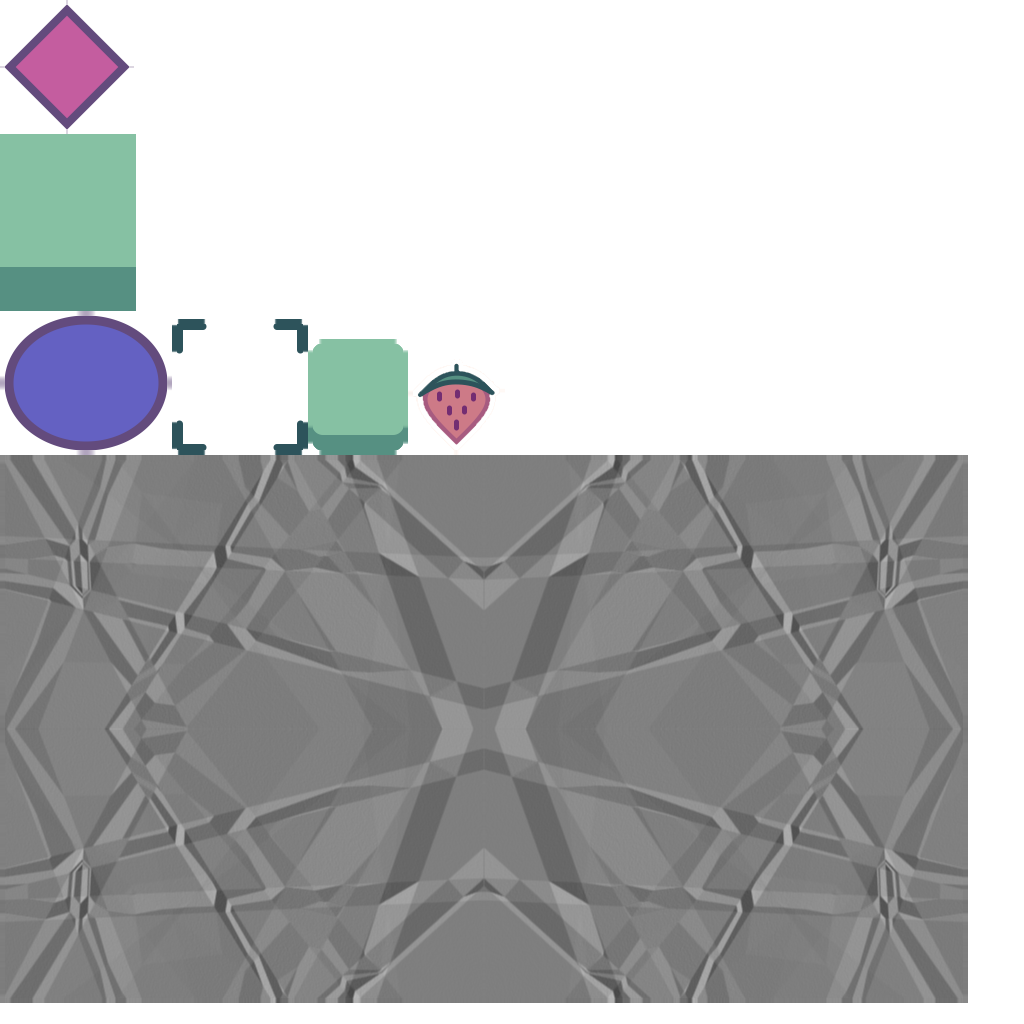
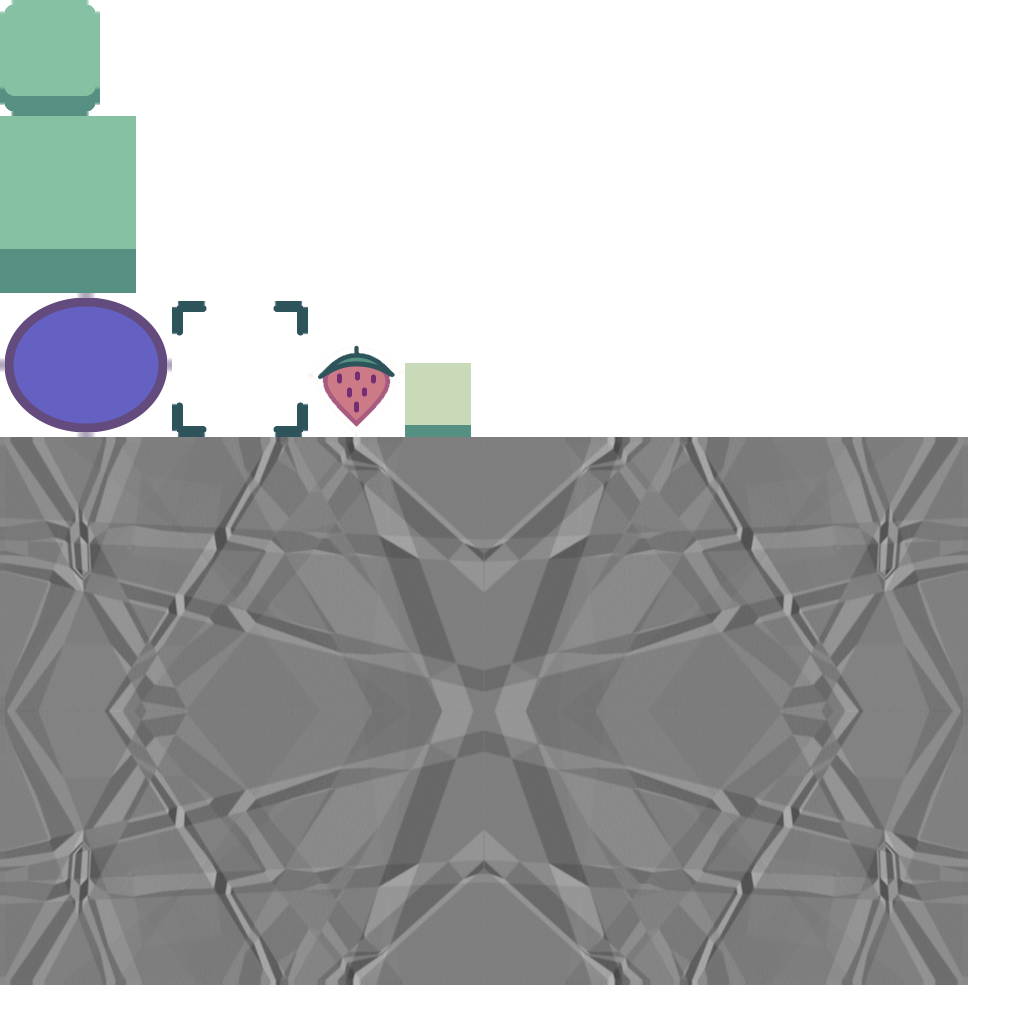
update toggle graphic

diff --git a/core/src/main/java/com/distraction/cjspring26/tile/Tile.java b/core/src/main/java/com/distraction/cjspring26/tile/Tile.java
@@ -16,7 +16,7 @@ public class Tile extends TileEntity {
     private final TextureRegion grassImage;
     private final TextureRegion platformImage;
     private final TextureRegion platformOffImage;
-    private final TextureRegion stoneToggleImage;
+    private final TextureRegion platformToggleImage;
 
     public Tile(Context context, TileMap tileMap, int row, int col) {
         super(context, tileMap);
@@ -24,7 +24,7 @@ public class Tile extends TileEntity {
         grassImage = context.getImage("grass");
         platformImage = context.getImage("grass");
         platformOffImage = context.getImage("platformoff");
-        stoneToggleImage = context.getImage("stonetoggle");
+        platformToggleImage = context.getImage("platformtoggle");
     }
 
     public boolean canWalk() {
@@ -37,7 +37,7 @@ public class Tile extends TileEntity {
             Utils.drawCentered(sb, platformImage, x, y - 42, toggleScale);
             if (!on && toggleTime <= 0) Utils.drawCentered(sb, platformOffImage, x, y - 23);
         }
-        if (platformToggle) Utils.drawCentered(sb, stoneToggleImage, x, y + 106);
+        if (platformToggle) Utils.drawCentered(sb, platformToggleImage, x, y + 106);
     }
 
 }

diff --git a/core/src/main/java/com/distraction/cjspring26/tile/TileMap.java b/core/src/main/java/com/distraction/cjspring26/tile/TileMap.java
@@ -118,7 +118,7 @@ public class TileMap {
         startRow = MathUtils.clamp((int) (y / tileSize) + 6, 0, map.length - 1);
         endRow = MathUtils.clamp((int) (y / tileSize) - 4, 0, map.length - 1);
         startCol = MathUtils.clamp((int) (x / tileSize) - 10, 0, map[0].length - 1);
-        endCol = MathUtils.clamp((int) (x / tileSize) + 10, 0, map[0].length - 1);
+        endCol = MathUtils.clamp((int) (x / tileSize) + 10, 0, map[0].length);
         for (int row = startRow; row >= endRow; row--) {
             for (int col = startCol; col < endCol; col++) {
                 map[row][col].update(dt);
